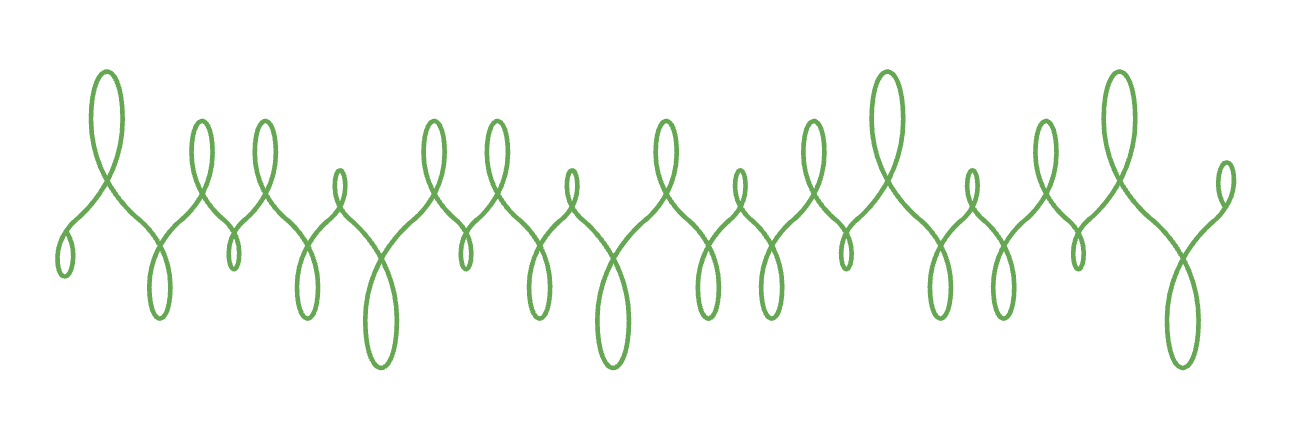
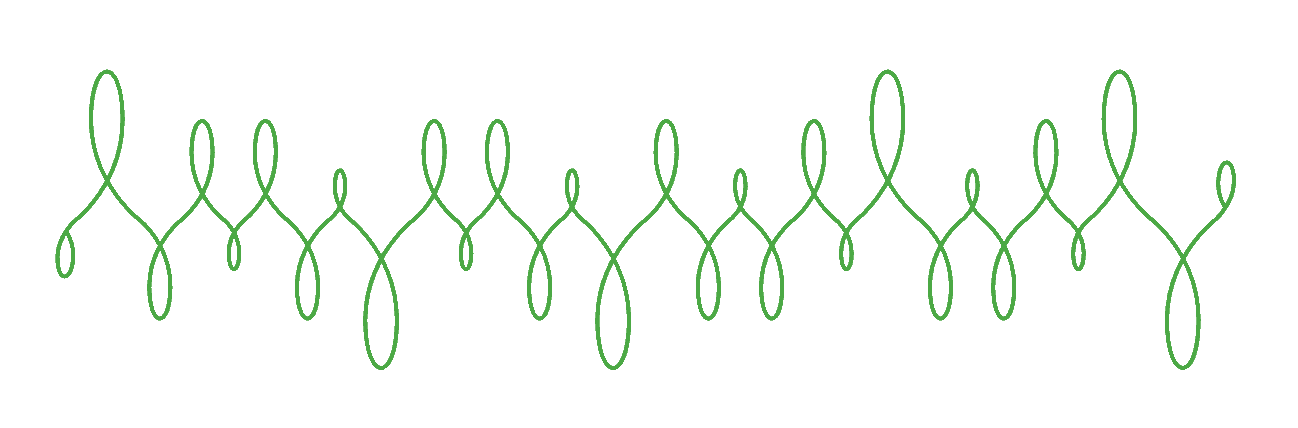
Refactor First View section with Musico pattern images and fade animation

diff --git a/src/features/root/_components/section-fv.tsx b/src/features/root/_components/section-fv.tsx
@@ -1,10 +1,10 @@
 'use client'
 
 import { Button } from '@/components/button'
+import { Fade } from '@/components/fade'
 import { MotionUp } from '@/components/motion-up'
-import Lottie from 'lottie-react'
+import Image from 'next/image'
 import Link from 'next/link'
-import animationData from '../_assets/animation/top-animation.json'
 
 type Props = {
   language: 'en' | 'ja'
@@ -56,16 +56,24 @@ export const SectionFv = ({ language }: Props) => {
           </Link>
         </MotionUp>
       </div>
-      <Lottie
-        animationData={animationData}
-        loop={true}
-        className="w-[25%] absolute left-0 bottom-0"
-      />
-      <Lottie
-        animationData={animationData}
-        loop={true}
-        className="w-1/3 absolute right-0 top-0"
-      />
+      <Fade>
+        <Image
+          src="/musico-pattern.png"
+          alt="MUSICO"
+          width={1298}
+          height={428}
+          className="w-[300px] md:w-[400px] lg:w-[500px] xl:w-[650px] rotate-90 absolute -top-[40px] md:top-[120px] lg:top-[160px] xl:top-[180px] -left-[100px] sm:-left-[40px] md:-left-[80px] lg:-left-[120px]"
+        />
+      </Fade>
+      <Fade>
+        <Image
+          src="/musico-pattern.png"
+          alt="MUSICO"
+          width={1298}
+          height={428}
+          className="w-[300px] md:w-[400px] lg:w-[500px] xl:w-[700px] absolute -bottom-[50px] -right-[50px]"
+        />
+      </Fade>
     </div>
   )
 }

diff --git a/src/components/fade.tsx b/src/components/fade.tsx
@@ -1,0 +1,20 @@
+'use client'
+
+import { motion } from 'motion/react'
+import type { ReactNode } from 'react'
+
+type Props = {
+  children: ReactNode
+}
+
+export const Fade = ({ children }: Props) => {
+  return (
+    <motion.div
+      initial={{ opacity: 0 }}
+      animate={{ opacity: 1 }}
+      transition={{ duration: 0.5 }}
+    >
+      {children}
+    </motion.div>
+  )
+}

diff --git a/src/app/[language]/page.tsx b/src/app/[language]/page.tsx
@@ -34,7 +34,7 @@ export default async function HomePage({ params }: Props) {
   const { language } = await params
 
   return (
-    <div className="flex flex-col gap-y-12 lg:gap-y-20 bg-zinc-50">
+    <div className="flex flex-col gap-y-12 lg:gap-y-20 bg-zinc-50 overflow-hidden">
       <SectionFv language={language} />
       <SectionServices language={language} />
       <SectionNews language={language} />

diff --git a/src/features/about/_assets/const/overviews.tsx b/src/features/about/_assets/const/overviews.tsx
@@ -1,5 +1,3 @@
-import Link from 'next/link'
-
 export const overviewsJa = [
   {
     label: '会社名',